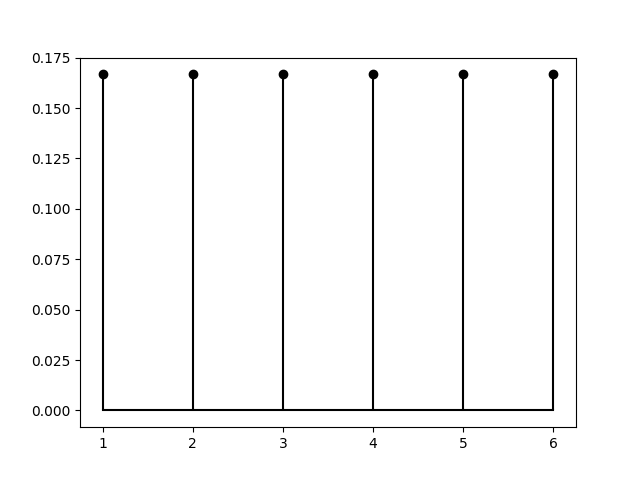
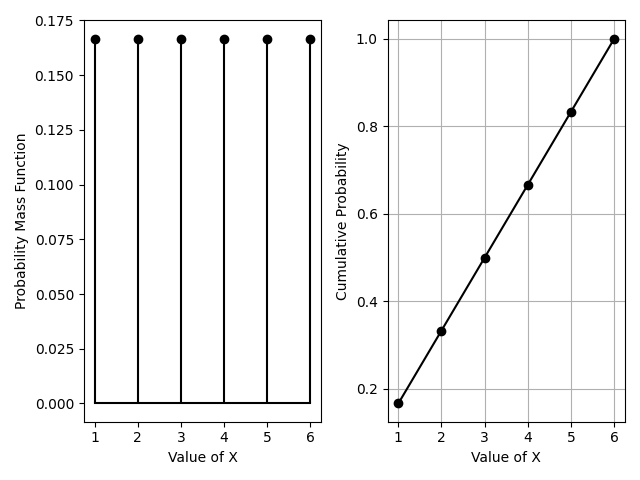
Add files via upload

diff --git a/Assignment 6/codes/6_1.py b/Assignment 6/codes/6_1.py
@@ -2,7 +2,7 @@
 #April 25, 2022
 #License
 #https://www.gnu.org/licenses/gpl-3.0.en.html
-#Create a PMF for a single die roll
+#Create a PMF and CDF subplot for a single die roll
 
 import numpy as np
 import matplotlib.pyplot as plt
@@ -11,7 +11,22 @@ from matplotlib.pyplot import stem
 #Array for PMF
 X = np.array([1, 2, 3, 4, 5, 6])
 Y = np.array([1/6, 1/6, 1/6, 1/6, 1/6, 1/6])
+Z = np.cumsum(Y)
 
 #Plotting the PMF
+plt.subplot(1, 2, 1)
+plt.xlabel('Value of X')
+plt.ylabel('Probability Mass Function')
+plt.xticks(X)
 stem(X, Y, linefmt='k-', markerfmt='ko', basefmt='k-')
+
+#Plotting the CDF
+plt.subplot(1, 2, 2)
+plt.plot(X, Z, 'ko-')
+plt.xlabel('Value of X')
+plt.ylabel('Cumulative Probability')
+plt.xticks(X)
+plt.grid() # minor
+#plt.axis('equal')
+plt.tight_layout() #Spaace the subplots properly
 plt.savefig('../figs/6_1.png')
